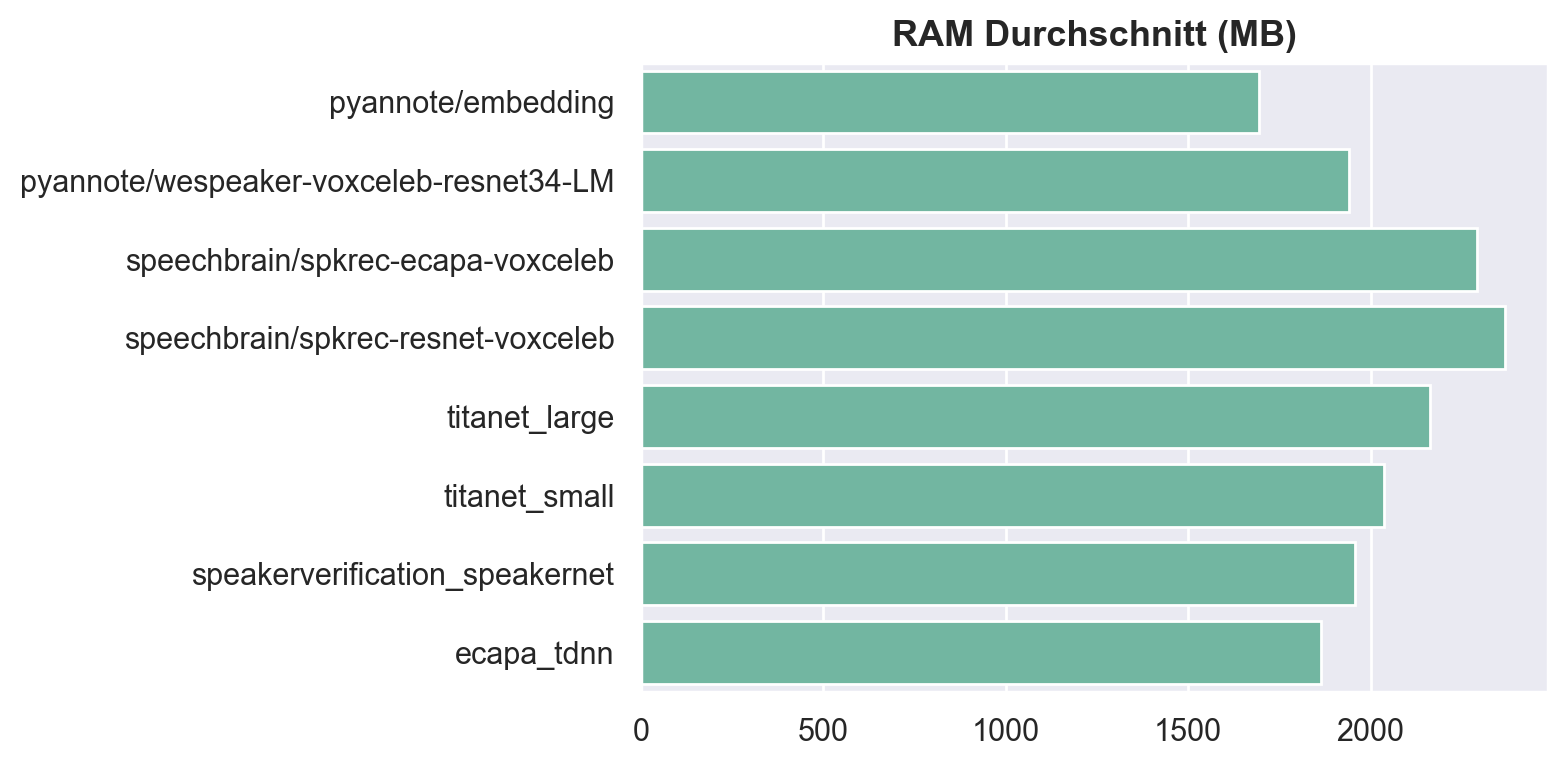
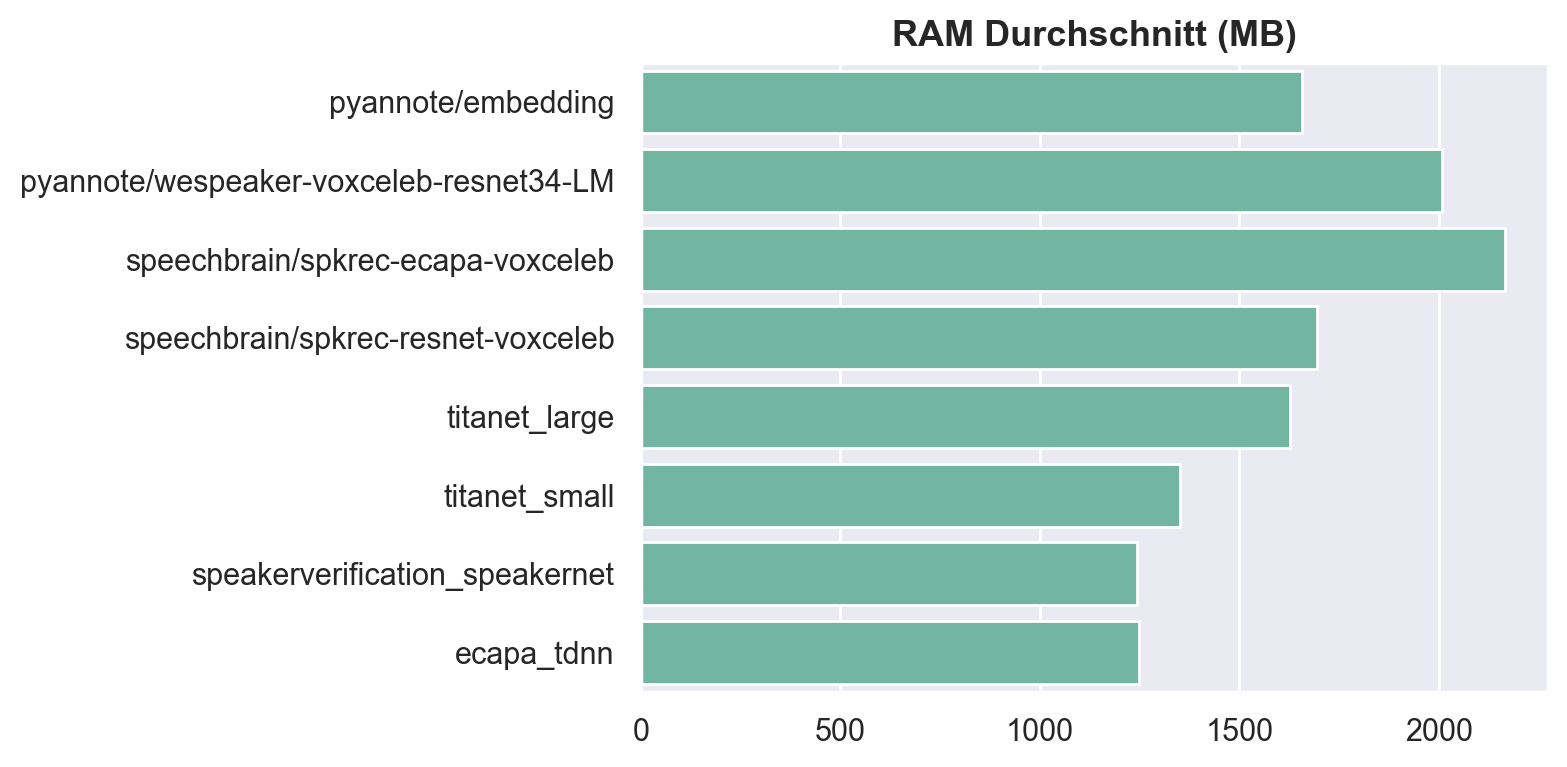
lets go

diff --git a/benchmark_voice_embedding/run_benchmark.py b/benchmark_voice_embedding/run_benchmark.py
@@ -44,22 +44,16 @@ for model in MODELS:
 
     # Vorheriges Modell aus dem Speicher freigeben bevor RAM gemessen wird
     gc.collect() # Python-Garbage-Collector erzwingen: gibt Objekte frei, deren Referenzzähler 0 ist (z.B. das vorherige Modell)
-    if torch.cuda.is_available():
-        torch.cuda.empty_cache()
-
-    # RAM und VRAM vor und nach Laden des Modells messen
-    ram_t0 = proc.memory_info().rss / 1024 / 1024
     cuda_available = torch.cuda.is_available()
     if cuda_available:
-        torch.cuda.reset_peak_memory_stats() # VRAM-Peak nach Laden des Modells messen, deshalb hier zurücksetzen
-    model.load()
-    idle_ram_mb  = proc.memory_info().rss / 1024 / 1024 - ram_t0
-    if cuda_available:
-        idle_vram_mb = torch.cuda.memory_allocated() / 1024 / 1024
-    else:
-        idle_vram_mb = 0
+        torch.cuda.empty_cache()
+        torch.cuda.reset_peak_memory_stats()
 
-    for trial in tqdm(trials[:3000], desc="Trials"): # erstmal nur 2000 zum testen
+    ram_t0 = proc.memory_info().rss / 1024 / 1024
+    model.load()
+    idle_ram_mb = proc.memory_info().rss / 1024 / 1024 - ram_t0
+
+    for trial in tqdm(trials, desc="Trials"):
         emb1, stats1 = measure_specs(model.embedding, trial["audio1"])
         emb2, stats2 = measure_specs(model.embedding, trial["audio2"])
         embedding_stats.append(stats1)
@@ -76,7 +70,6 @@ for model in MODELS:
     results.append({
         "modell": name,
         "idle_ram_mb": round(idle_ram_mb, 2),
-        "idle_vram_mb": round(idle_vram_mb, 2),
         "vram_peak_mb": round(vram_peak_mb, 2),
         "inf_mean_s": round(np.mean([t["zeit_s"] for t in embedding_stats]), 3),
         "ram_max_mb": round(max(x["ram_max_mb"] for x in embedding_stats), 2),

diff --git a/benchmark_voice_embedding/benchmark/visualize.py b/benchmark_voice_embedding/benchmark/visualize.py
@@ -5,7 +5,6 @@ import seaborn as sns
 
 PLOTS = {
     "idle_ram_mb": "RAM nach Modell-Laden (MB)",
-    "idle_vram_mb": "VRAM nach Modell-Laden (MB)",
     "vram_peak_mb": "VRAM Maximum (MB)",
     "inf_mean_s": "Inferenzzeit Durchschnitt (s)",
     "ram_max_mb": "RAM Maximum (MB)",
